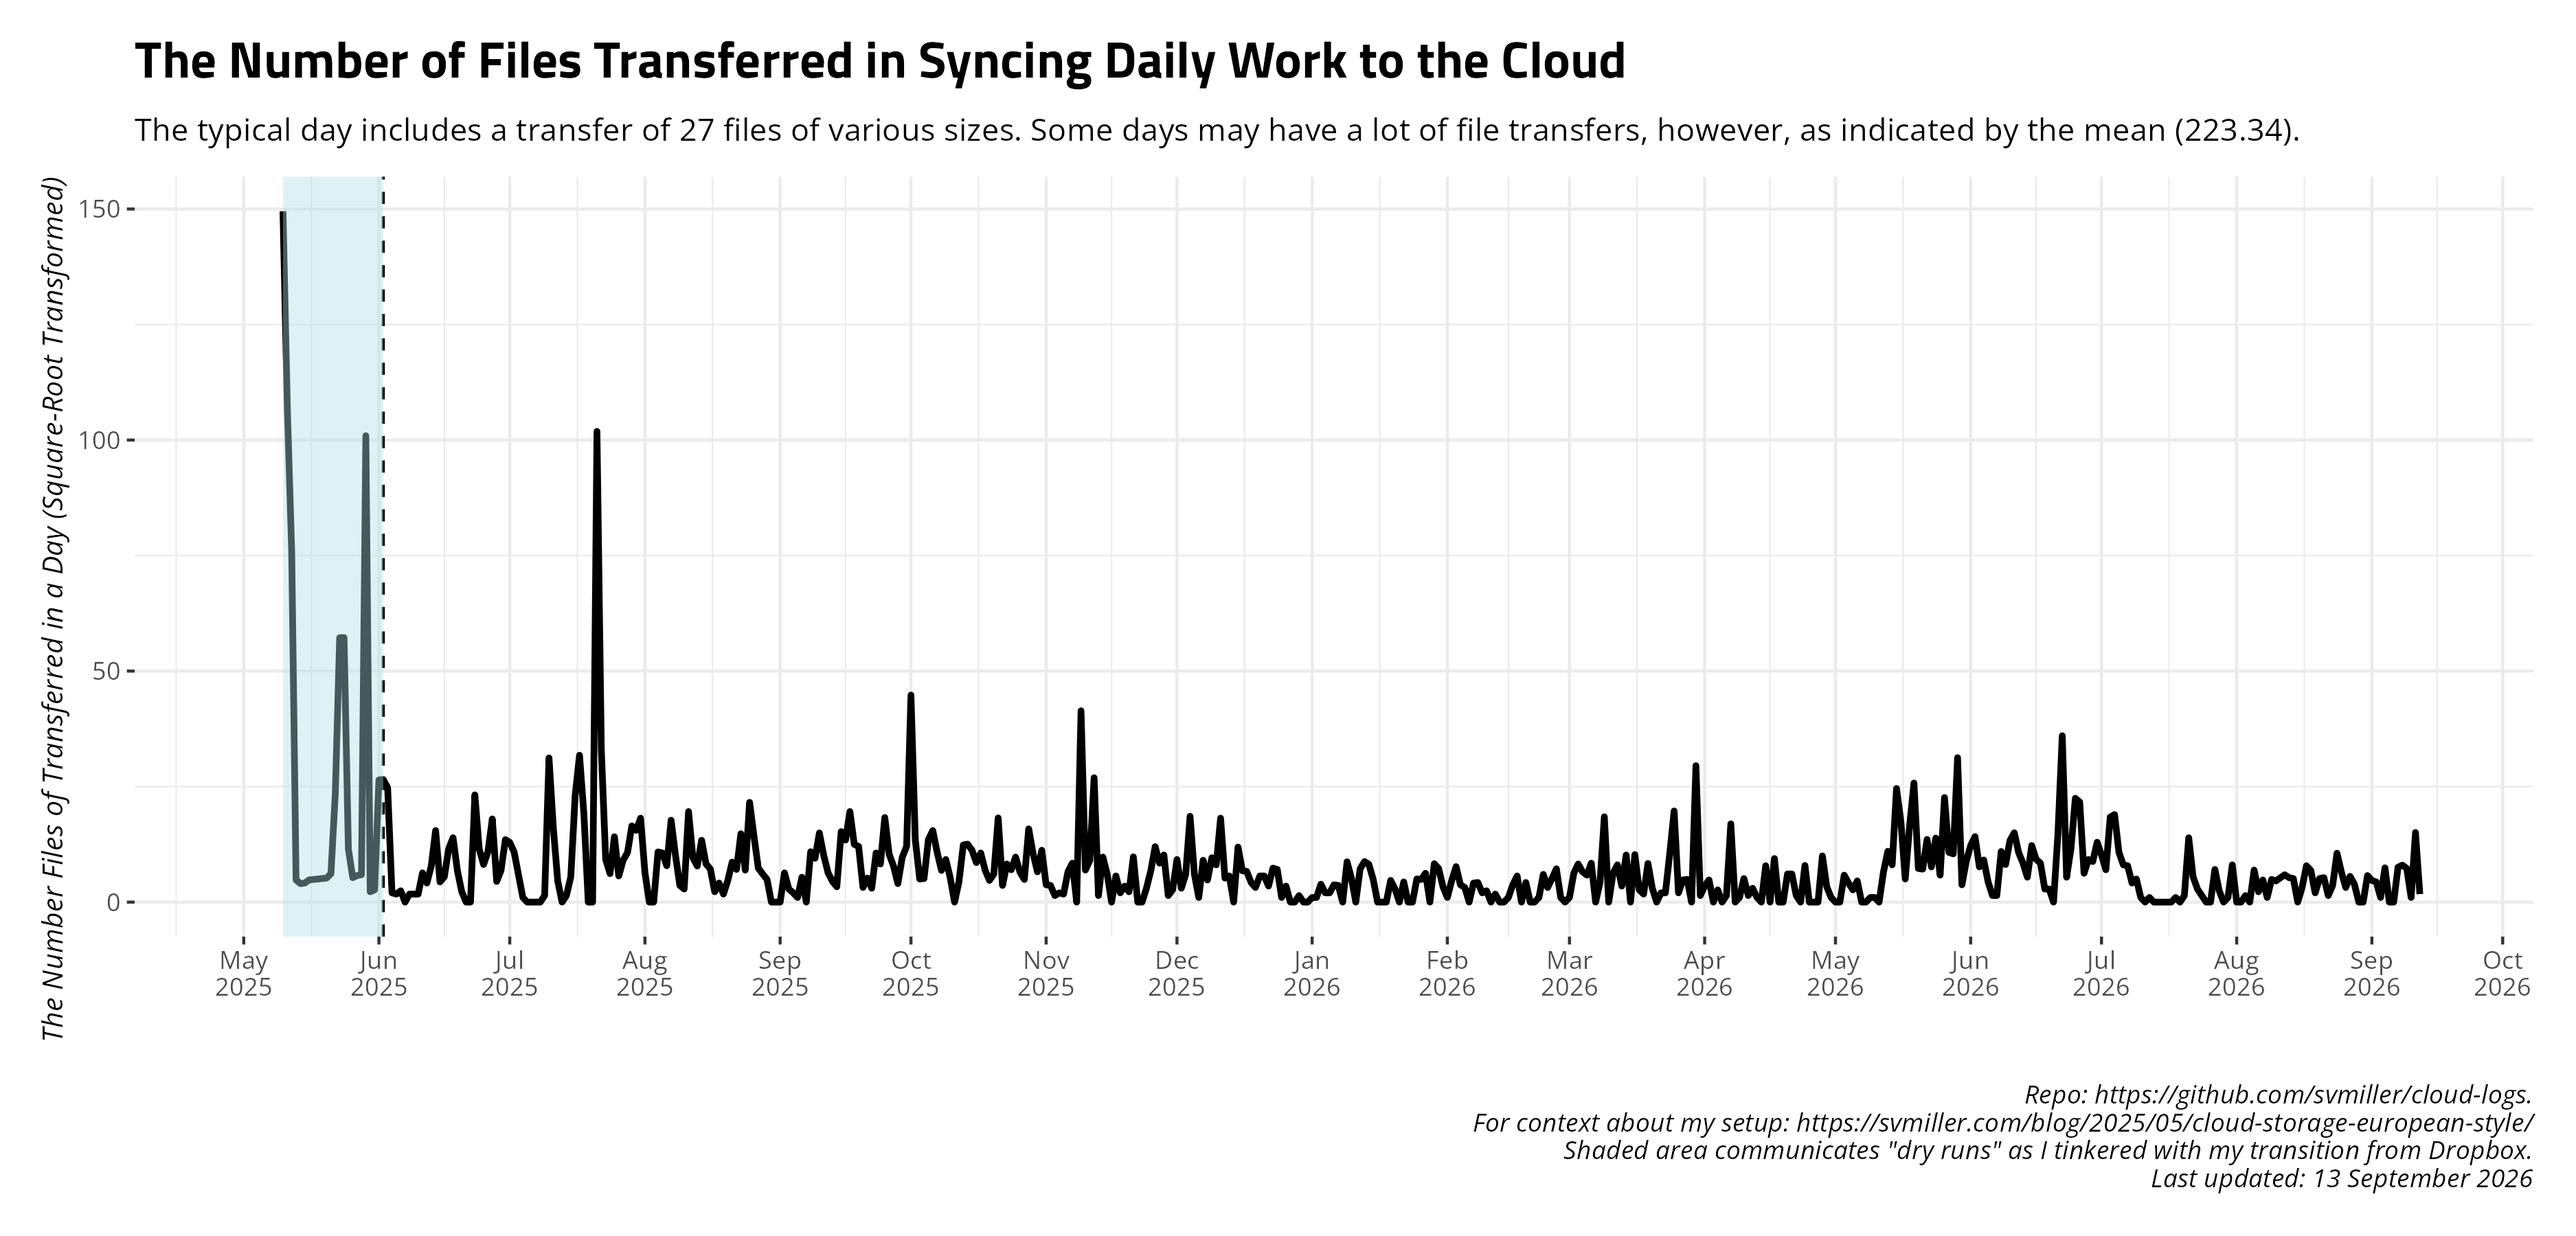
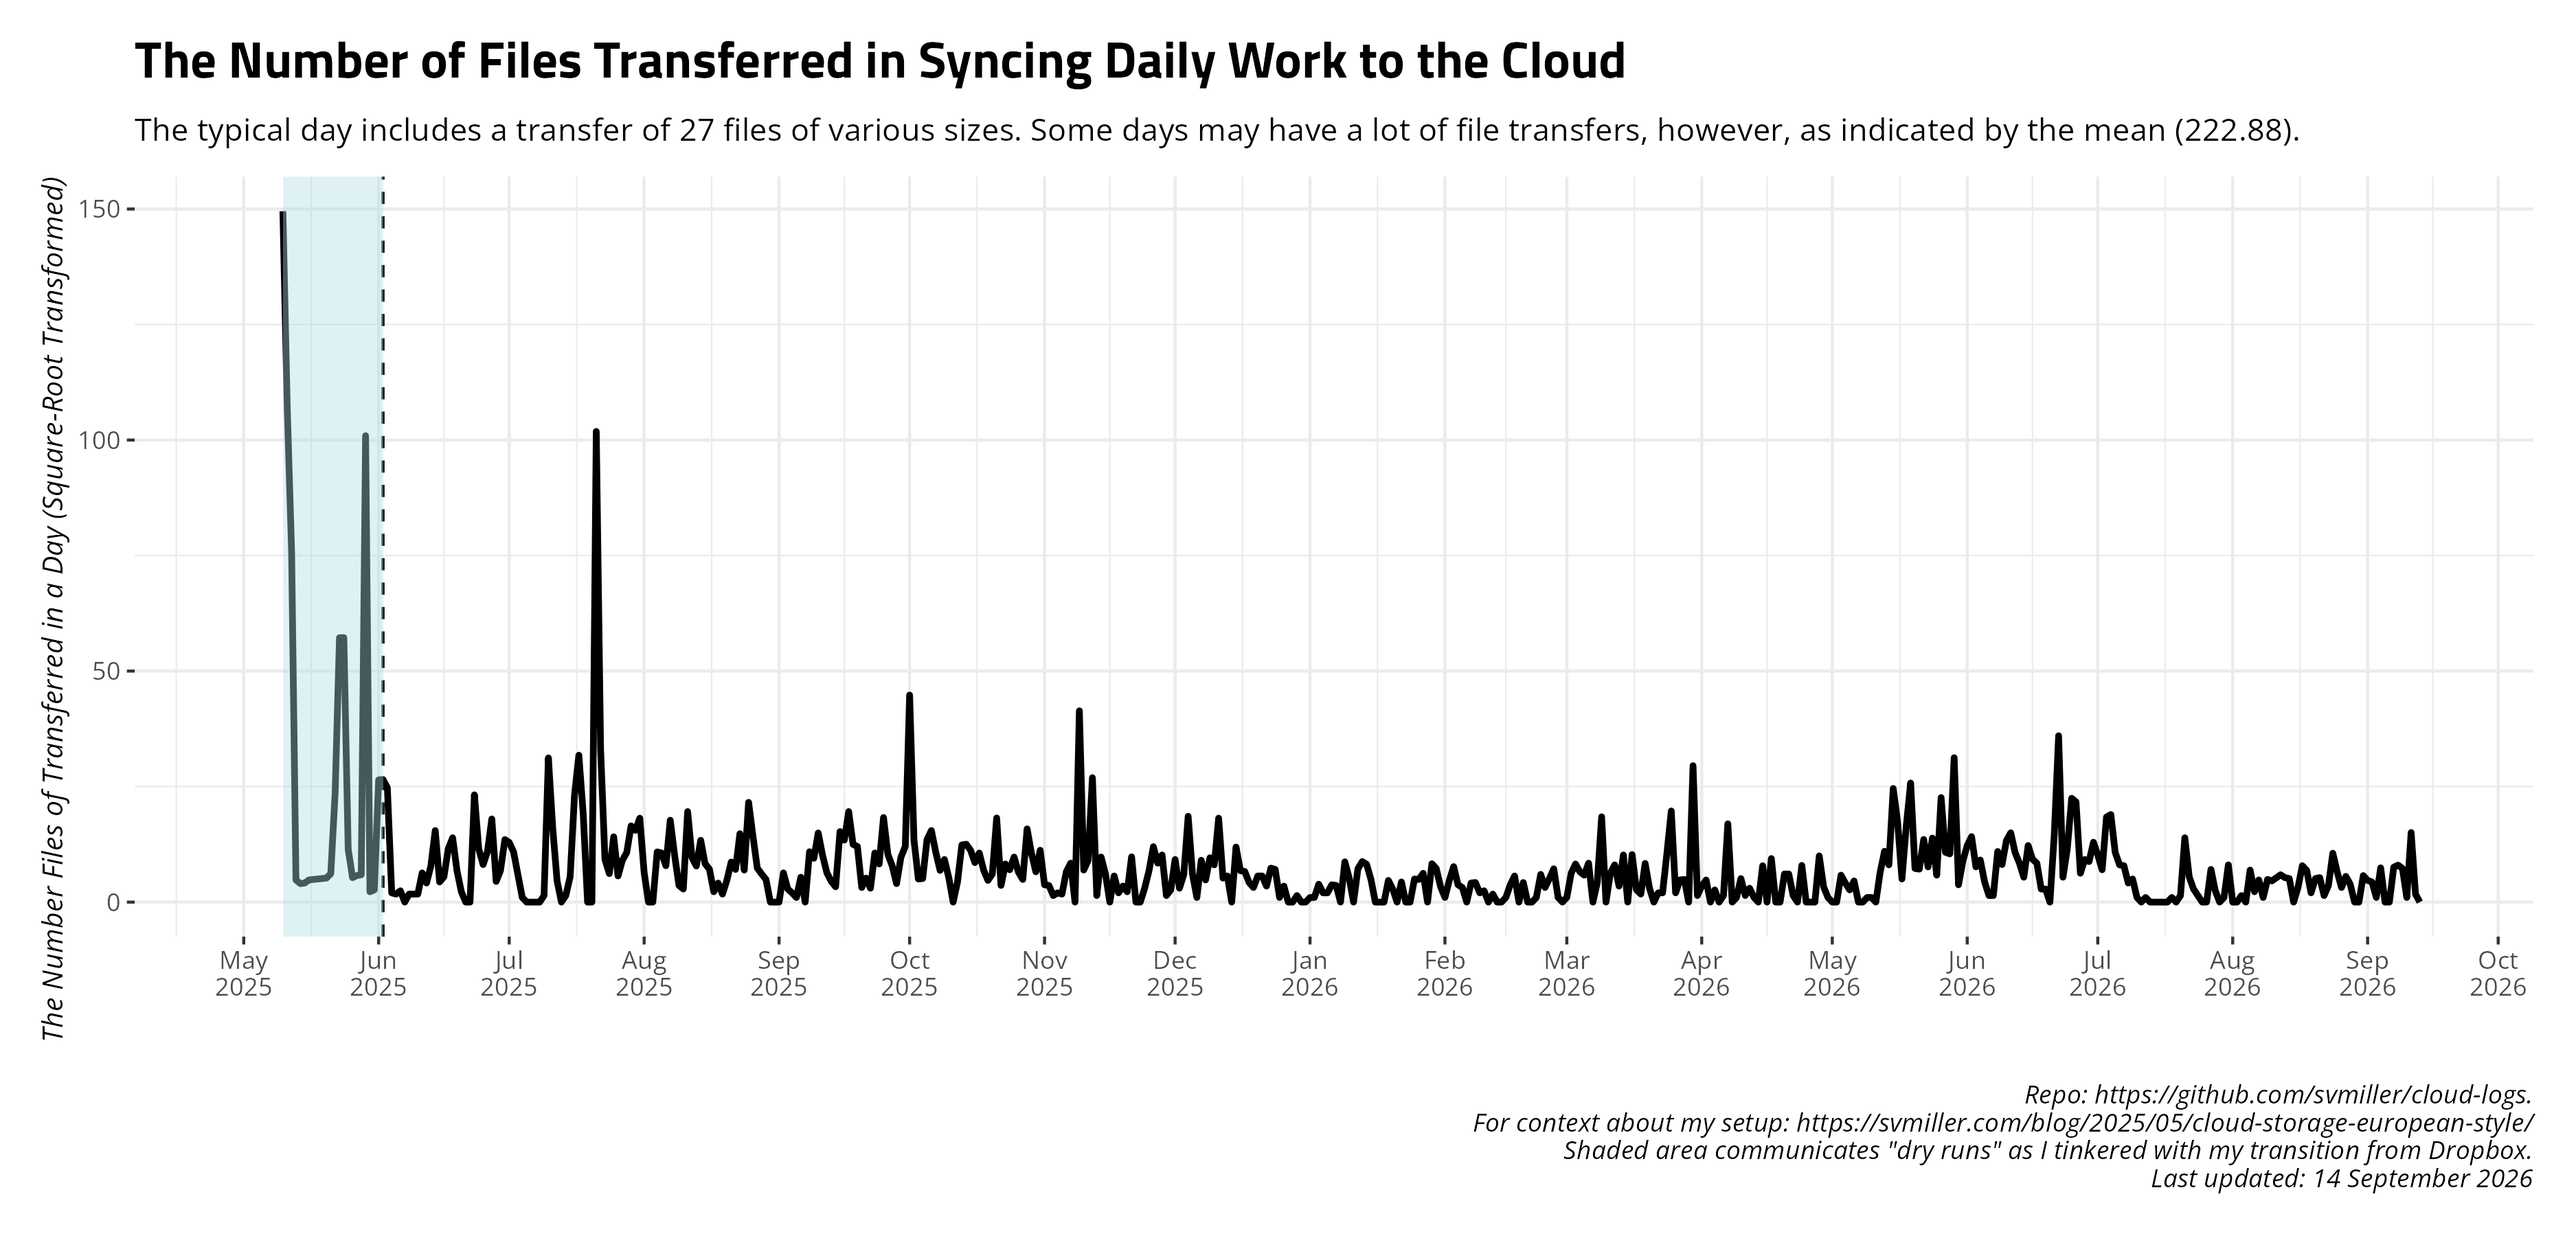
Date: 2026-09-14 09:00:34. Hi mom!

diff --git a/README.md b/README.md
@@ -27,17 +27,17 @@ and uploads to Github.
     #> # A tibble: 14 × 4
     #>    date       ftransfer stransfer    elapsed 
     #>    <date>         <dbl> <chr>        <chr>   
-    #>  1 2026-08-30         0 <NA>         15m27.8s
-    #>  2 2026-08-31        33 171.129 KiB  27m17.9s
-    #>  3 2026-09-01        22 376.333 KiB  8m41.6s 
-    #>  4 2026-09-02        19 56.660 MiB   21m24.9s
-    #>  5 2026-09-03         1 23.351 KiB   17m3.0s 
-    #>  6 2026-09-04        55 107.209 MiB  5m12.1s 
-    #>  7 2026-09-05         0 <NA>         8m2.0s  
-    #>  8 2026-09-06         0 <NA>         10m58.2s
-    #>  9 2026-09-07        57 153.312 KiB  12m38.3s
-    #> 10 2026-09-08        64 11.991 MiB   19m39.1s
-    #> 11 2026-09-09        53 2.356 MiB    33m50.6s
-    #> 12 2026-09-10         1 10.592 KiB   34m11.7s
-    #> 13 2026-09-11       227 1018.108 MiB 12m21.6s
-    #> 14 2026-09-12         3 24.892 KiB   8m27.8s
+    #>  1 2026-08-31        33 171.129 KiB  27m17.9s
+    #>  2 2026-09-01        22 376.333 KiB  8m41.6s 
+    #>  3 2026-09-02        19 56.660 MiB   21m24.9s
+    #>  4 2026-09-03         1 23.351 KiB   17m3.0s 
+    #>  5 2026-09-04        55 107.209 MiB  5m12.1s 
+    #>  6 2026-09-05         0 <NA>         8m2.0s  
+    #>  7 2026-09-06         0 <NA>         10m58.2s
+    #>  8 2026-09-07        57 153.312 KiB  12m38.3s
+    #>  9 2026-09-08        64 11.991 MiB   19m39.1s
+    #> 10 2026-09-09        53 2.356 MiB    33m50.6s
+    #> 11 2026-09-10         1 10.592 KiB   34m11.7s
+    #> 12 2026-09-11       227 1018.108 MiB 12m21.6s
+    #> 13 2026-09-12         3 24.892 KiB   8m27.8s 
+    #> 14 2026-09-13         0 <NA>         4m45.2s
